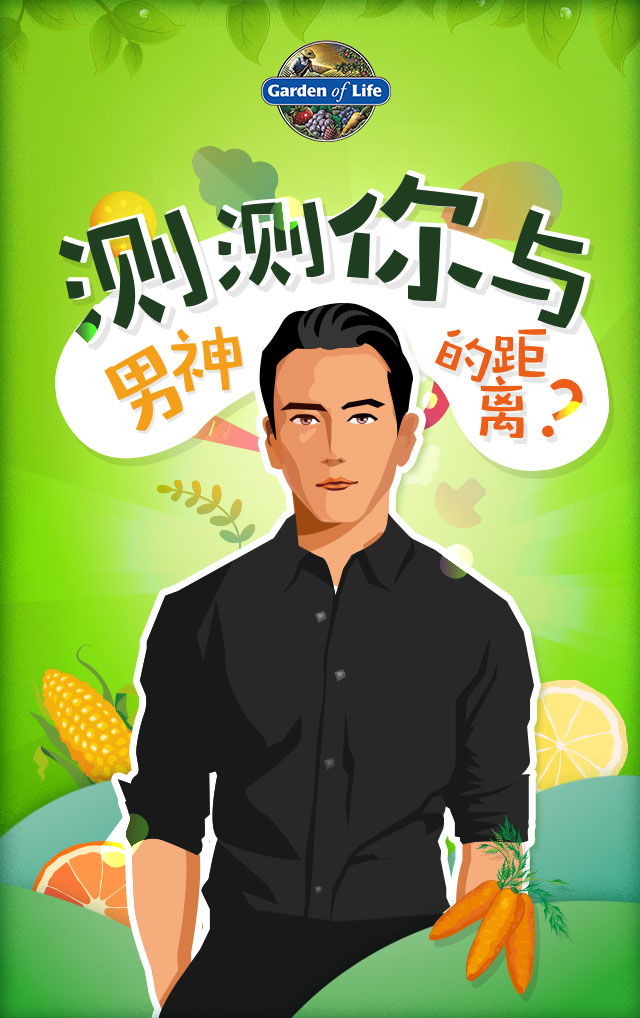
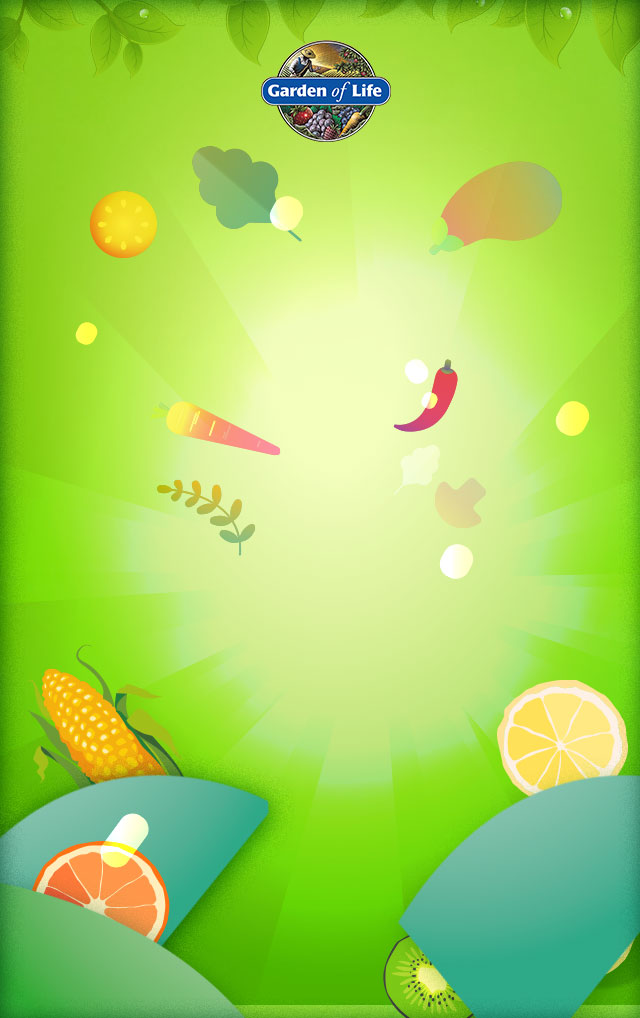
首页优化

diff --git a/carden_of_life/css/game.css b/carden_of_life/css/game.css
@@ -56,16 +56,59 @@ button {
 .gl-start-cover {
   background-image: url(../img/index_cover.jpg); }
 
-.start-btn {
+.index-wrapper {
+  position: absolute;
+  bottom: 0;
+  height: 26.25rem;
+  left: 50%;
+  transform: translate(-50%, 0); }
+
+.index-inner {
+  position: relative;
+  bottom: 0;
+  width: 17.375rem;
+  margin: 0 auto; }
+
+.index-title {
+  width: 17.375rem;
+  height: 9.65625rem;
+  background-image: url(../img/index_cover_title.png);
+  background-size: 100% 100%; }
+
+.index-person {
+  width: 14.125rem;
+  height: 22.9375rem;
+  background-image: url(../img/index_cover_person.png);
+  background-size: 100% 100%;
+  position: absolute;
+  left: 50%;
+  transform: translate(-50%, 0);
+  top: 3.75rem; }
+
+.start-btn-wrapper {
+  position: absolute;
+  bottom: 3.125rem;
+  left: 50%;
+  transform: translate(-50%, 0);
   width: 8.625rem;
-  height: 7.4375rem;
+  height: 5.25rem; }
+  .start-btn-wrapper:before {
+    -webkit-animation: from-top2Bottom 0.85s 0s infinite cubic-bezier(0.21, 0.53, 0.56, 0.8) alternate;
+    animation: from-top2Bottom 0.85s 0s infinite cubic-bezier(0.21, 0.53, 0.56, 0.8) alternate;
+    content: "";
+    display: block;
+    width: 1.9375rem;
+    height: 1.90625rem;
+    background: url(../img/start_btn_flag.png) no-repeat;
+    background-size: contain;
+    margin-left: 1.5625rem; }
+
+.start-btn {
+  width: 8.8125rem;
+  height: 4.90625rem;
   background: url(../img/start_btn.png) no-repeat;
   background-size: contain;
-  position: absolute;
-  bottom: 4.9375rem;
-  left: 50%;
-  outline: none;
-  transform: translate(-50%, 0); }
+  outline: none; }
 
 .person-select-wrapper {
   background-image: url(../img/index_select_cover.jpg); }
@@ -106,8 +149,8 @@ button {
   width: 1.1875rem;
   display: inline-block;
   background-image: url(../img/index_checkbox.png);
-  background-position: -6.375rem 0;
-  background-size: contain;
+  background-position: -1.375rem 0;
+  background-size: 2.53125rem 1.1875rem;
   background-repeat: no-repeat;
   margin: 0 auto; }
 
@@ -264,6 +307,20 @@ button {
 .result-descption {
   background: #72bb72; }
 
+@keyframes from-top2Bottom {
+  to {
+    transform: translate(0, 0); }
+  from {
+    transform: translate(-30%, -30%); } }
+
+@-webkit-keyframes from-top2Bottom {
+  to {
+    transform: translate(0, 0);
+    -webkit-transform: translate(0, 0); }
+  from {
+    transform: translate(-30%, -30%);
+    -webkit-transform: translate(-30%, -30%); } }
+
 @-webkit-keyframes ball-scale-ripple-multiple {
   0% {
     -webkit-transform: scale(0.1);
@@ -335,4 +392,4 @@ button {
   .ball-scale-ripple-multiple.over > div {
     border-color: #ed1c24; }
 
[2 lines of base64/hex data omitted]

diff --git a/carden_of_life/sass/game.scss b/carden_of_life/sass/game.scss
@@ -21,17 +21,62 @@ $rem:1rem/32;
 .gl-start-cover{
 	background-image:url(../img/index_cover.jpg);
 }
+//首页人物
+.index-wrapper{
+	position:absolute;
+	bottom:0;
+	height:$rem*840;
+	left:50%;
+	transform:translate(-50%,0);
+}
 
-.start-btn{
+.index-inner{
+	position:relative;
+	bottom:0;
+	width:$rem*556;
+	margin:0 auto;
+}
+.index-title{
+	width:$rem*556;
+	height:$rem*309;
+	background-image:url(../img/index_cover_title.png);
+	background-size:100% 100%;
+}
+.index-person{
+	width:$rem*452;
+	height:$rem*734;
+	background-image:url(../img/index_cover_person.png);
+	background-size:100% 100%;
+	position:absolute;
+	left:50%;
+	transform:translate(-50%,0);
+	top:$rem*120;
+}
+.start-btn-wrapper{
+	position:absolute;
+	bottom:$rem*100;
+	left:50%;
+	transform: translate(-50%,0);
 	width:$rem*276;
-	height:$rem*238;
+	height:$rem*168;
+	&:before{
+		-webkit-animation: from-top2Bottom .85s 0s infinite cubic-bezier(.21, .53, .56, .8) alternate;
+		        animation: from-top2Bottom .85s 0s infinite cubic-bezier(.21, .53, .56, .8) alternate; 
+		content: "";
+		display: block;
+		width:$rem*62;
+		height:$rem*61;
+		background:url(../img/start_btn_flag.png) no-repeat;
+		background-size: contain;
+		margin-left:$rem*50;
+	}
+}
+.start-btn{
+	width:$rem*282;
+	height:$rem*157;
 	background:url(../img/start_btn.png) no-repeat;
 	background-size: contain;
-	position:absolute;
-	bottom:$rem*158;
-	left:50%;
 	outline:none;
-	transform: translate(-50%,0);
 }
 
 .person-select-wrapper{
@@ -77,8 +122,8 @@ $rem:1rem/32;
 		width:$rem*38;
 		display: inline-block;
 		background-image:url(../img/index_checkbox.png);
-		background-position:$rem*-204 0;
-		background-size:contain;
+		background-position:$rem*-44 0;
+		background-size:$rem*81 $rem*38;
 		background-repeat:no-repeat;
 		margin:0 auto;
 	}
@@ -268,6 +313,26 @@ $rem:1rem/32;
 	background:#72bb72;
 }
 
+
+@keyframes from-top2Bottom{
+	to{
+		transform: translate(0,0);
+	}
+	from{
+		transform: translate(-30%,-30%);
+	}
+}
+@-webkit-keyframes from-top2Bottom{
+	to{
+		transform: translate(0,0);
+		-webkit-transform: translate(0,0);
+
+	}
+	from{
+		transform: translate(-30%,-30%);
+		-webkit-transform: translate(-30%,-30%);
+	}
+}
 
 @-webkit-keyframes ball-scale-ripple-multiple {
   0% {

diff --git a/carden_of_life/index.html b/carden_of_life/index.html
@@ -24,7 +24,15 @@
 		<!--封面-->
 		<div class="gl-cover gl-start-cover" style="display: none;" 
 			v-show="step == 0">
-			<button class="start-btn" @click="step = 1"></button>
+			<div class="index-wrapper">
+				<div class="index-inner">
+					<div class="index-title"></div>
+					<div class="index-person"></div>
+				</div>
+			</div>
+			<div class="start-btn-wrapper">
+				<button class="start-btn" @click="step = 1"></button>
+			</div>
 		</div>
 		<!--选择性别-->
 		<div class="gl-select-sex" style="display: none;" v-show="step == 1">

diff --git a/carden_of_life/js/index.js b/carden_of_life/js/index.js
@@ -213,7 +213,7 @@ var app = new Vue({
 		openShare:function(){
 			this.showShare = true;
 			jskit.openShare && jskit.openShare({
-				title:"健康自测问卷",
+				title:"我的健康自测",
 				desc:"美国高端有机膳食补充剂品牌Garden of Life（生命花园）以“成就非凡健康”为己任，目标是为消费者提供最干净，最优质的全食物营养成分",
 				imgUrl:"http://static.fancysmp.com/activity/gardenLeft/img/share_200x200.png",
 				link:location.href
